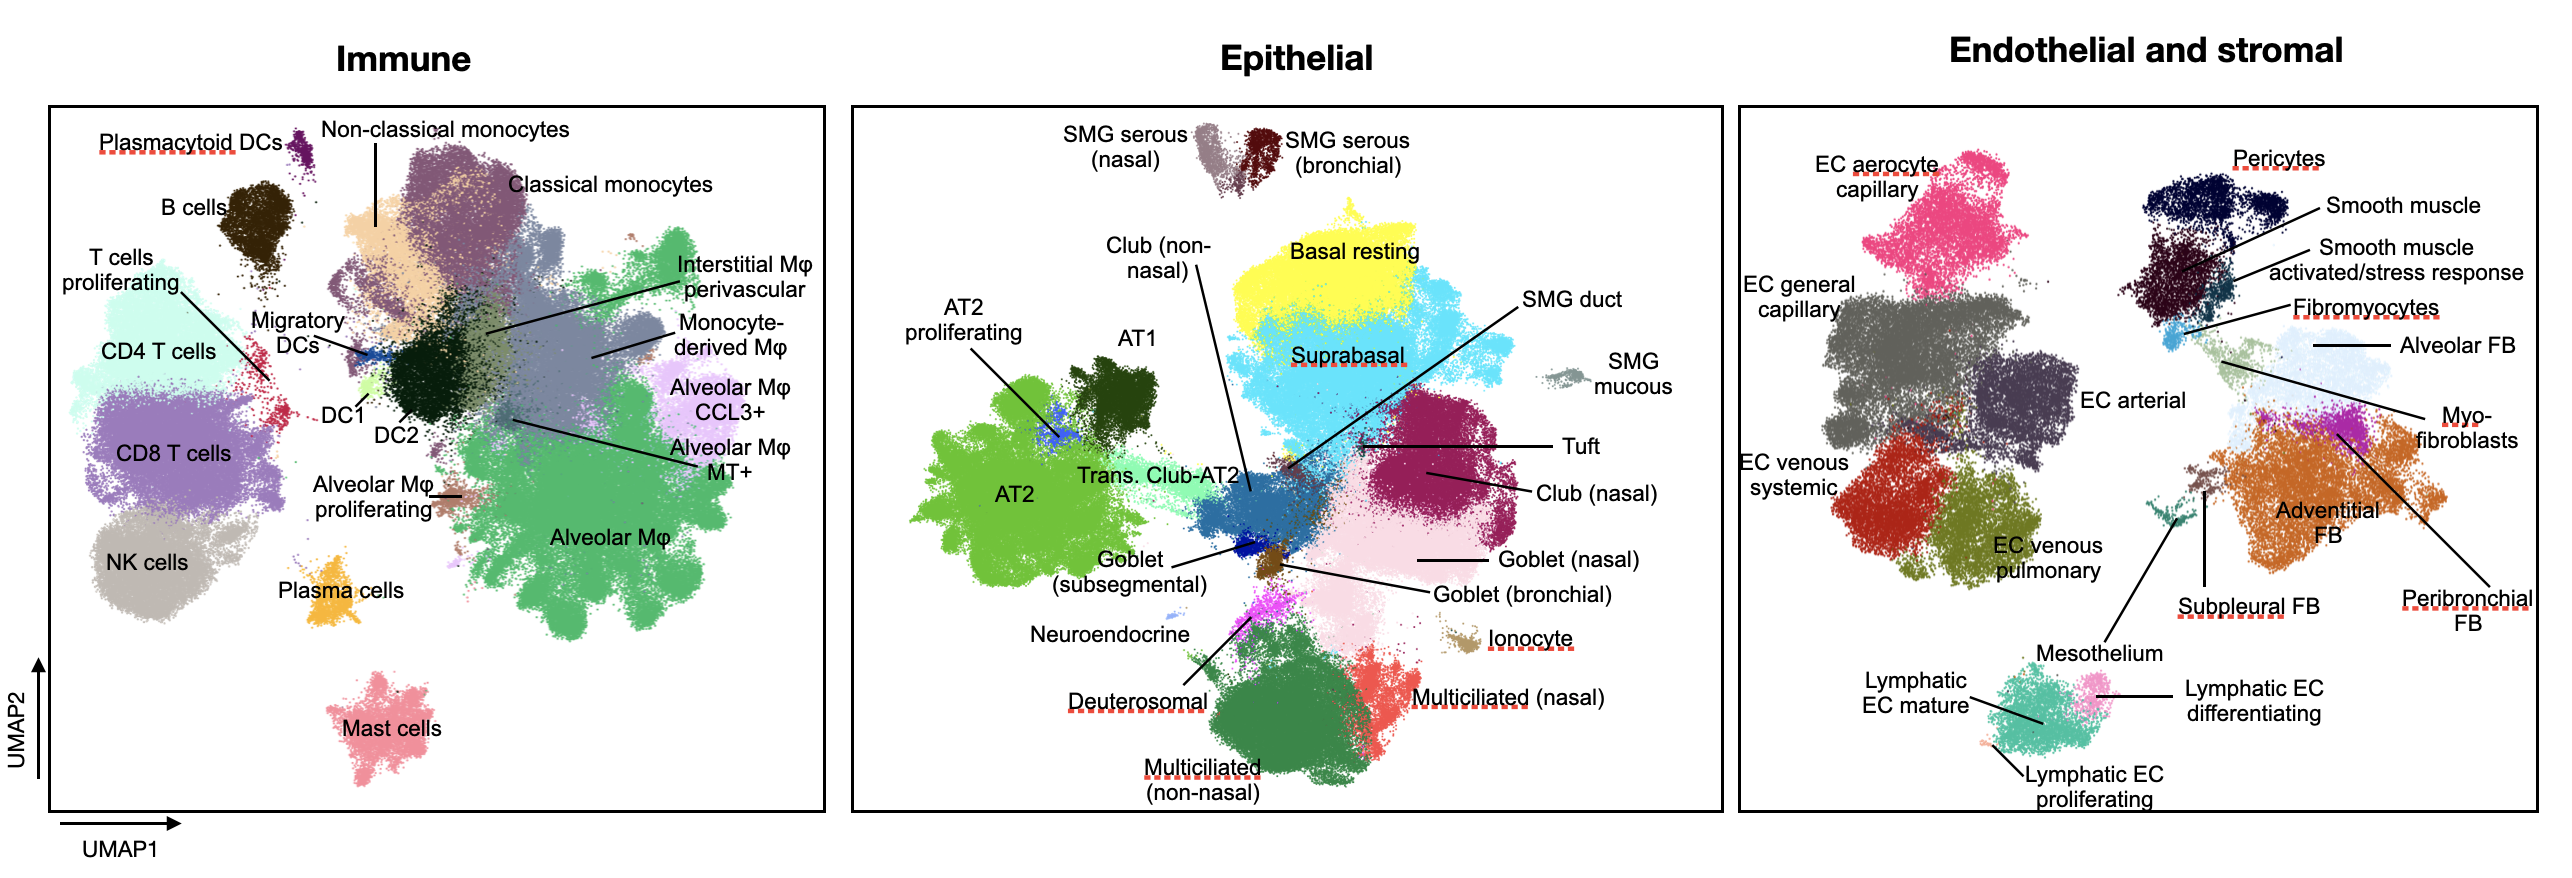
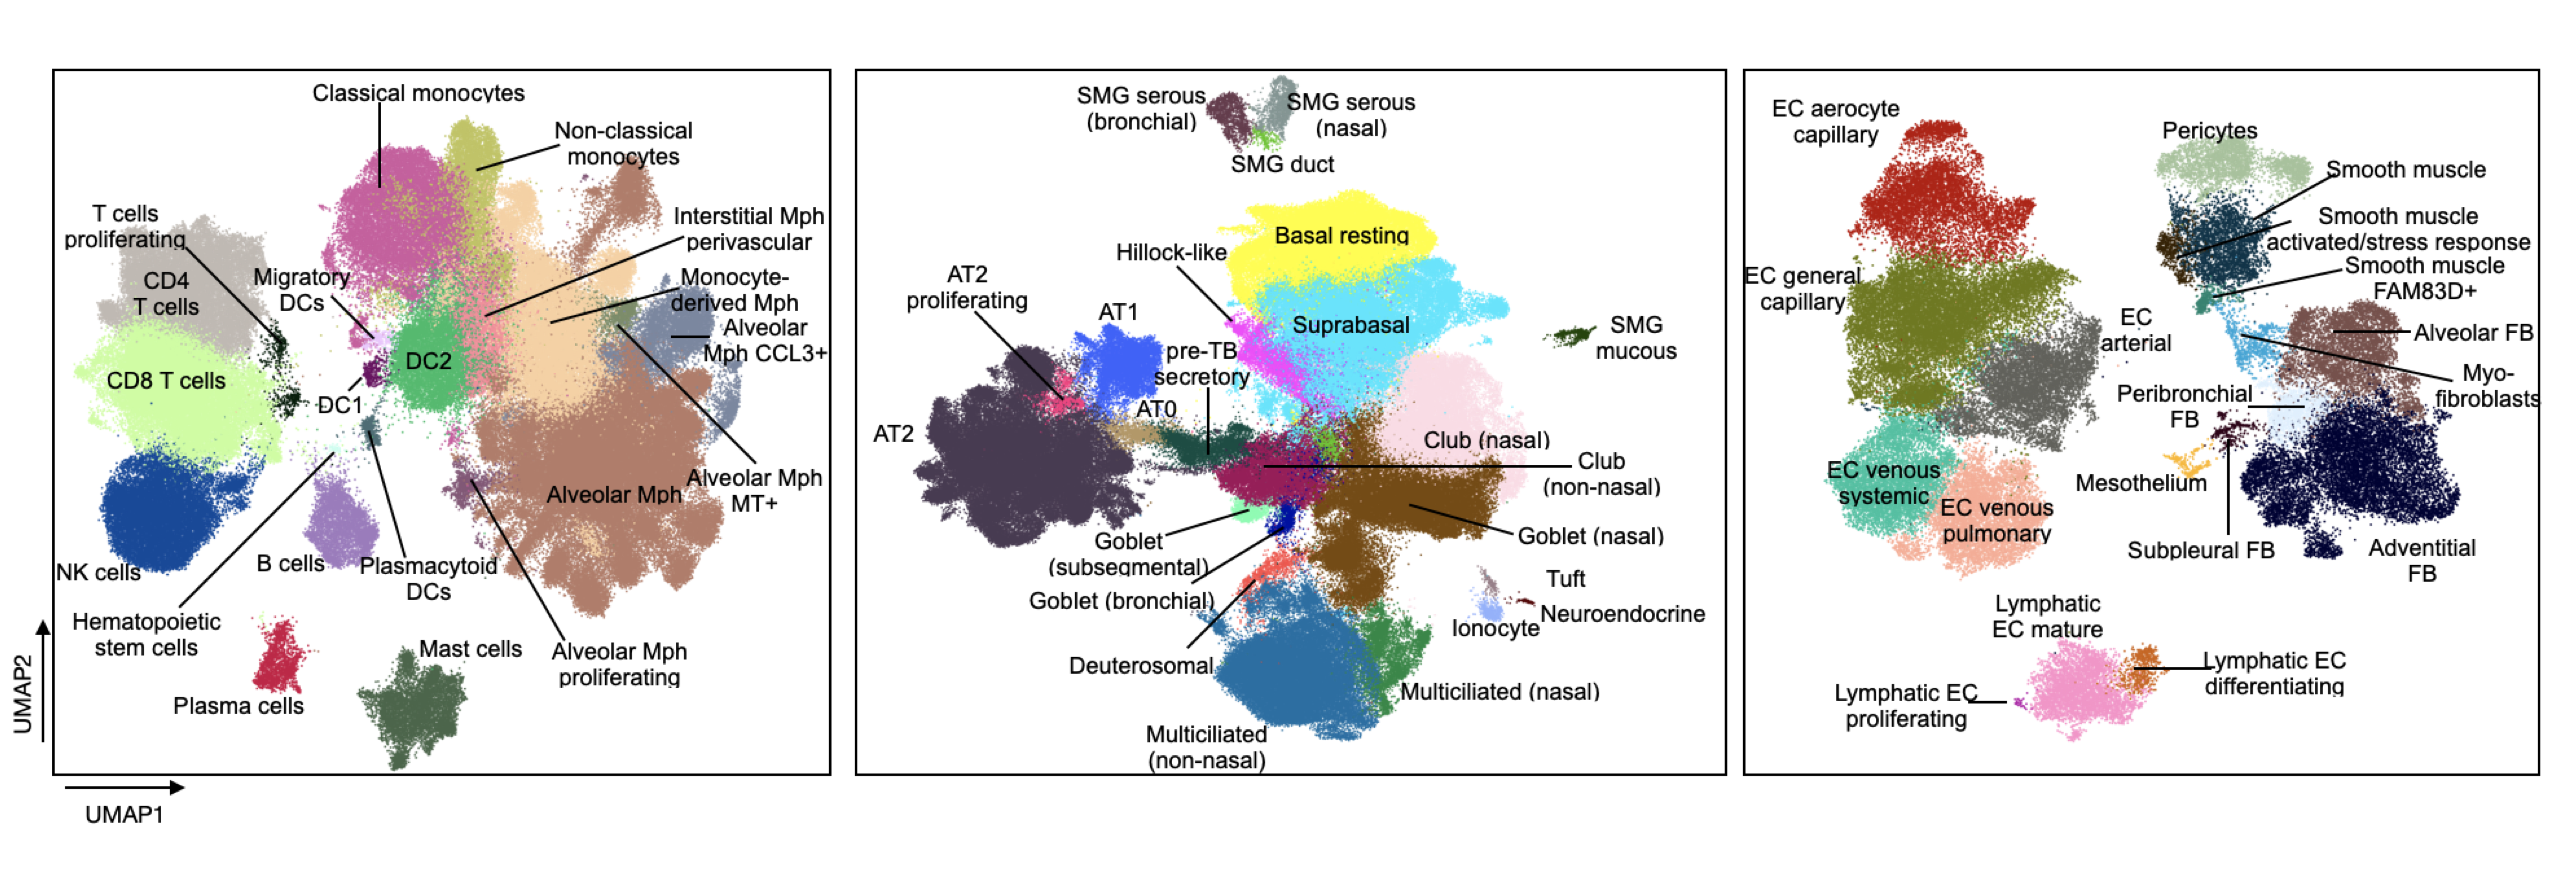
updates for HLCA v1.1

diff --git a/README.md b/README.md
@@ -1,12 +1,12 @@
-## [The integrated Human Lung Cell Atlas](https://www.biorxiv.org/content/10.1101/2022.03.10.483747v1)
+## [The Human Lung Cell Atlas](https://www.biorxiv.org/content/10.1101/2022.03.10.483747v1)
 
-Welcome to the github page of the intgrated Human Lung Cell Atlas (HLCA). Here, you will find some explanations about the HLCA, and links to all places you can find, download, explore, and use the HLCA
+Welcome to the github page of the Human Lung Cell Atlas (HLCA). Here, you will find explanation about the HLCA, and links to all places you can find, download, explore, and use the HLCA
 
 ## What is the HLCA?
-If you're still wondering this, maybe check out the [paper](https://www.biorxiv.org/content/10.1101/2022.03.10.483747v1). In brief, it is the first integrated, universal transcriptomic reference of the human lung on the single-cell level.
+If you're still wondering this, maybe check out the [paper](https://www.biorxiv.org/content/10.1101/2022.03.10.483747v1). In brief, it is the first integrated, universal transcriptomic reference of the human lung at the single-cell level.
 
 ## Why do we need the HLCA?
-Over the past decade, numerous single-cell studies of the human lung have been published, yet each of these studies was limited in the number and diversity of individuals. However, a comprehensive reference should capture variation also across a diverse population. Moreover, querying individual studies simultaneously is complicated by different cell type definitions and batch effects. The HLCA overcomes these challenges by bringing together these single-cell and single-nucleus studies into a single atlas, combining samples from 444 individuals across 46 datasets. The core of this atlas, comprising healthy lung samples from 107 individuals, was fully re-annotated based on original annotations and annotations by 6 independent lung experts. This reannotation resulted in labeling of 58 different cell identity labels, thus proposing a first consensus annotation of the human lung.
+Over the past decade, numerous single-cell studies of the human lung have been published, yet each of these studies was limited in the number and diversity of individuals, and are biased by their specific choice in technologies, protocols and more. A comprehensive reference should capture variation across a diverse population. Moreover, querying individual studies simultaneously is complicated by different cell type definitions. The HLCA overcomes these challenges by bringing together single-cell and single-nucleus studies into a single atlas, combining samples from 486 individuals across 49 datasets. The core of this atlas, comprising healthy lung samples from 107 individuals, was fully re-annotated based on original annotations and annotations by 6 independent lung experts. This reannotation resulted in labeling of 61 different cell identity labels, thus proposing a first consensus annotation of the human lung.
 
 
 <img src="./figs/HLCA_annotations_umaps.png"><br>
@@ -15,14 +15,16 @@ Over the past decade, numerous single-cell studies of the human lung have been p
 <br>
 
 ## What can we do with the HLCA?
-The unprecedented number and diversity of human lung samples and cell types can be leveraged for a number of purposes. In the HLCA pre-print, we show that pooling these datasets enables better annotation of rare cell types. We moreover leverage the diversity in demographics of the atlas to model natural variation among healthy individuals, modeling the effects of sex, age, BMI, smoking, as well as changes with location in the nose and lungs. Using the HLCA cell type annotations, we link genomic variants of disease to specific cell types in the lung. Finally, we show that mapping new data to the HLCA core enables fast and accurate cell type annotation, as well as the identification of unknown cell identities, and disease-affected cell types.  
+The unprecedented number and diversity of human lung samples and cell types in the HLCA can be leveraged for a number of purposes. In the HLCA publication, we show that pooling these datasets enables better annotation of rare cell types. We moreover leverage the diversity in demographics of the atlas to model natural variation among healthy individuals, modeling the effects of sex, age, BMI, smoking, as well as changes with location along the respiratory tract. Using the HLCA cell type annotations, we link genomic variants of disease to specific cell types in the lung. Finally, we show that mapping new data to the HLCA core enables fast and accurate cell type annotation, as well as the identification of unknown cell identities, and disease-affected cell types. Importantly, you can easily map your own data to the HLCA, as is described below under "map your own data to the HLCA". <br>
+
 <img src="./figs/HLCA_overview.png"><br>
 *Figure 2. Overview of the HLCA study.*
 <br>
 ## How to use, explore and download the HLCA
-If you would like to take a look at the HLCA, you can interactively explore it on two platforms. You can also download the HLCA there for your own use:<br> 
-- [cellxgene](https://cellxgene.cziscience.com/collections/6f6d381a-7701-4781-935c-db10d30de293) for exploration and download of the HLCA core, including both raw and normalized counts, as well as a batch-corrected embedding and UMAP visualization.<br> 
-- [FASTGenomics](https://beta.fastgenomics.org/p/hlca) for exploration of the extended HLCA (including raw, i.e. un-normalized (!) counts for 2000 genes).<br>
+If you would like to take a look at the HLCA, you can interactively explore it on CELLxGENE. There you can also download the HLCA for your own use:<br> 
+- [cellxgene](https://cellxgene.cziscience.com/collections/6f6d381a-7701-4781-935c-db10d30de293) for exploration and download of the HLCA core and the full HLCA, including both raw and normalized counts, as well as a batch-corrected embedding and UMAP visualization.<br> 
+
+For downloading the HLCA scANVI batch correction/integration model, checkout Zenodo [TO DO once updated to v1.1].<br>
 
 The file [HLCA_metadata_explanation.csv](./docs/HLCA_metadata_explanation.csv) in the docs folder of this repo contains a description of each metadata category that you'll find in the HLCA.<br><br>
 Finally, if you're interested in the code we used for the HLCA project, go check out the [HLCA reproducibility GitHub](https://github.com/LungCellAtlas/HLCA_reproducibility) containing all scripts and notebooks used for the HLCA project.<br>
@@ -30,9 +32,9 @@ Finally, if you're interested in the code we used for the HLCA project, go check
 ## Map your own data to the HLCA:
 If you would like to map your own data to the HLCA, for label transfer, identification of unknown and disease affected cell types there are multiple places to do that:<br>  
 - [The HLCA mapping GitHub repository](https://github.com/LungCellAtlas/mapping_data_to_the_HLCA) for bioinformaticians who want to map their data using scArches via a jupyter notebook  (including label transfer, uncertainty scores, and a low-dimensional embedding).<br>
-- [FASTGenomics](https://beta.fastgenomics.org/analyses/detail-analysis-d85cb82af90d42bd9bc3086c1dc035c1#Result&scArches) for automated mapping with [scArches](https://www.nature.com/articles/s41587-021-01001-7) (including label transfer, uncertainty scores, and a low-dimensional embedding), see also [here](docs/fastgenomics-hlca-mapping.gif) for a short video demonstrating how to map your data.<br>
-- [Azimuth](https://app.azimuth.hubmapconsortium.org/app/human-lung-v2) for automated mapping with Azimuth (including label transfer and a UMAP visualization). 
-- [CellTypist for label transfer](https://t.co/stkbmLeSId) ("Human_Lung_Atlas" reference)
+- [FASTGenomics](https://beta.fastgenomics.org/analyses/detail-analysis-d85cb82af90d42bd9bc3086c1dc035c1#Result&scArches) for automated mapping with [scArches](https://www.nature.com/articles/s41587-021-01001-7) (including label transfer, uncertainty scores, and a low-dimensional embedding), see also [here](docs/fastgenomics-hlca-mapping.gif) for a short video demonstrating how to map your data. [to be updated to version 1.1!]<br>
+- [Azimuth](https://app.azimuth.hubmapconsortium.org/app/human-lung-v2) for automated mapping with Azimuth (including label transfer and a UMAP visualization). [to be updated to version 1.1!] 
+- [CellTypist for label transfer](https://t.co/stkbmLeSId) ("Human_Lung_Atlas" reference). [to be updated to version 1.1!]
 - CZI reference mapping portal: coming soon.<br>
 
 Note that the scArches mapping gives you an HLCA-informed low-dimensional embedding that you can use for downstream analyses, such as visualization (t-SNE, UMAP), clustering, and trajectory inference.<br>
